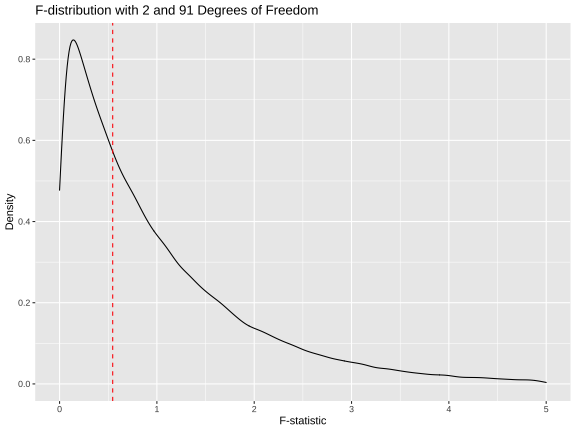
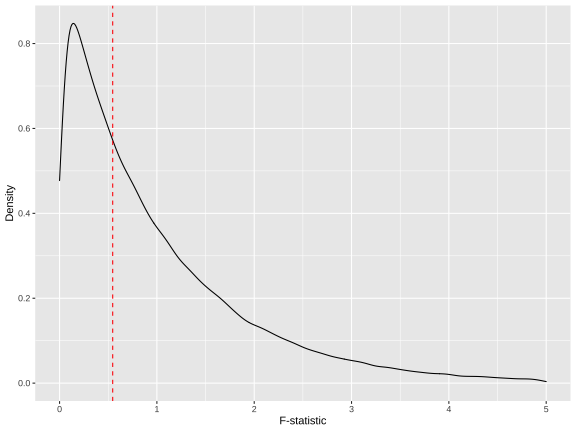
changes to slides for correct df

diff --git a/Week 9/Asynch Recordings/Synch/many_means.html b/Week 9/Asynch Recordings/Synch/many_means.html
@@ -79,20 +79,6 @@ class: center
 
 ---
 
-class: middle 
-
-.larger[Hypotheses]
-
-For an ANOVA, we are interested in testing for a difference in multiple groups. 
-
-&lt;center&gt; 
-
-`\(H_0\)`: all of the group means are the same 
-
-`\(H_A\)`: at least one group mean differs
-
----
-
 class: center
 
 .larger[F-statistic]
@@ -101,7 +87,7 @@ Ratio of variability between groups to variability within groups
 
 &lt;center&gt;
 .bitlarger[
-`\(\frac{\frac{SSB}{k}}{\frac{SSE}{n-k}} = \frac{MSB}{MSE}\)`
+`\(\frac{\frac{SSB}{k-1}}{\frac{SSE}{n-k}} = \frac{MSB}{MSE}\)`
 ]
 
 **Will an F-statistic ever be negative?**
@@ -153,6 +139,20 @@ evals_small %&gt;%
 
 ---
 
+class: middle 
+
+.larger[Hypotheses]
+
+For an ANOVA, we are interested in testing for a difference in multiple groups. 
+
+&lt;center&gt; 
+
+`\(H_0\)`: all of the group means are the same 
+
+`\(H_A\)`: at least one group mean differs
+
+---
+
 .bitlarger[**Conditions of an ANOVA**]
 
 - Independence 
@@ -181,8 +181,12 @@ the `\(F\)`-distribution to approximate the shape of the true sampling distribut
 
 .large[Visualizing the Observed Statistic]
 
+&lt;center&gt; 
+.midi[
+`\(F\)`-distribution with 2 and 91 degrees of freedom
+]
 
-![](many_means_files/figure-html/unnamed-chunk-6-1.png)&lt;!-- --&gt;
+&lt;img src="many_means_files/figure-html/unnamed-chunk-6-1.png" style="display: block; margin: auto;" /&gt;
 
 ---
 
@@ -228,7 +232,7 @@ null_dist &lt;- evals_small %&gt;%
 .large[Visualizing the p-value]
 
 
-![](many_means_files/figure-html/unnamed-chunk-9-1.png)&lt;!-- --&gt;
+&lt;img src="many_means_files/figure-html/unnamed-chunk-9-1.png" style="display: block; margin: auto;" /&gt;
 
 
 ---
@@ -279,7 +283,7 @@ all of the comparisons.
 
 .pull-right[
 &lt;div class="figure" style="text-align: center"&gt;
-&lt;img src="Bonferroni.jpg" alt="Carlo Emilio Bonferroni (1882-1960)"  /&gt;
+&lt;img src="Bonferroni.jpg" alt="Carlo Emilio Bonferroni (1882-1960)" width="40%" /&gt;
 &lt;p class="caption"&gt;Carlo Emilio Bonferroni (1882-1960)&lt;/p&gt;
 &lt;/div&gt;
 ]
